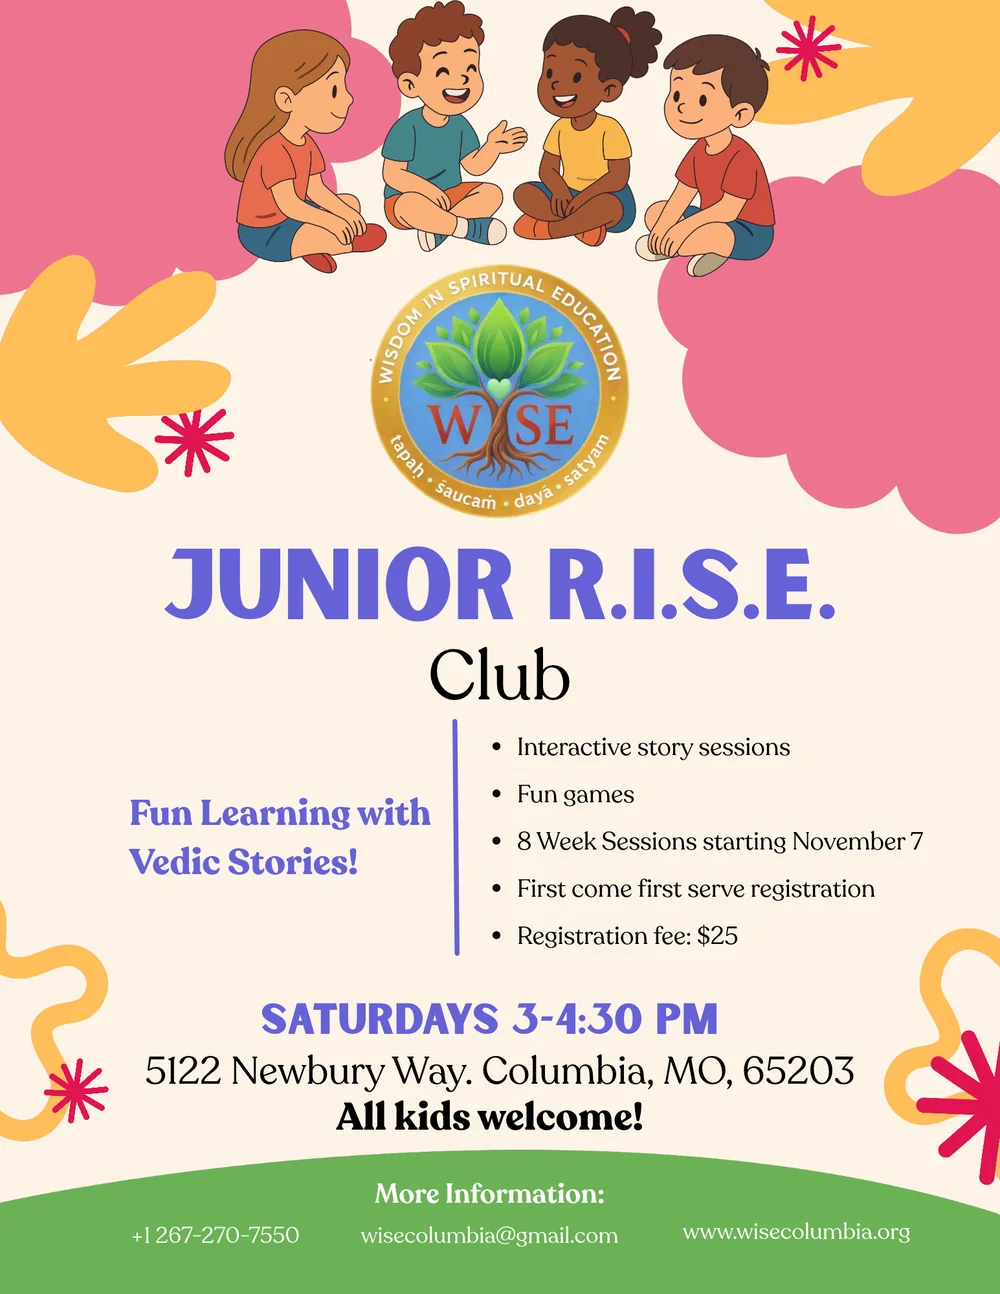
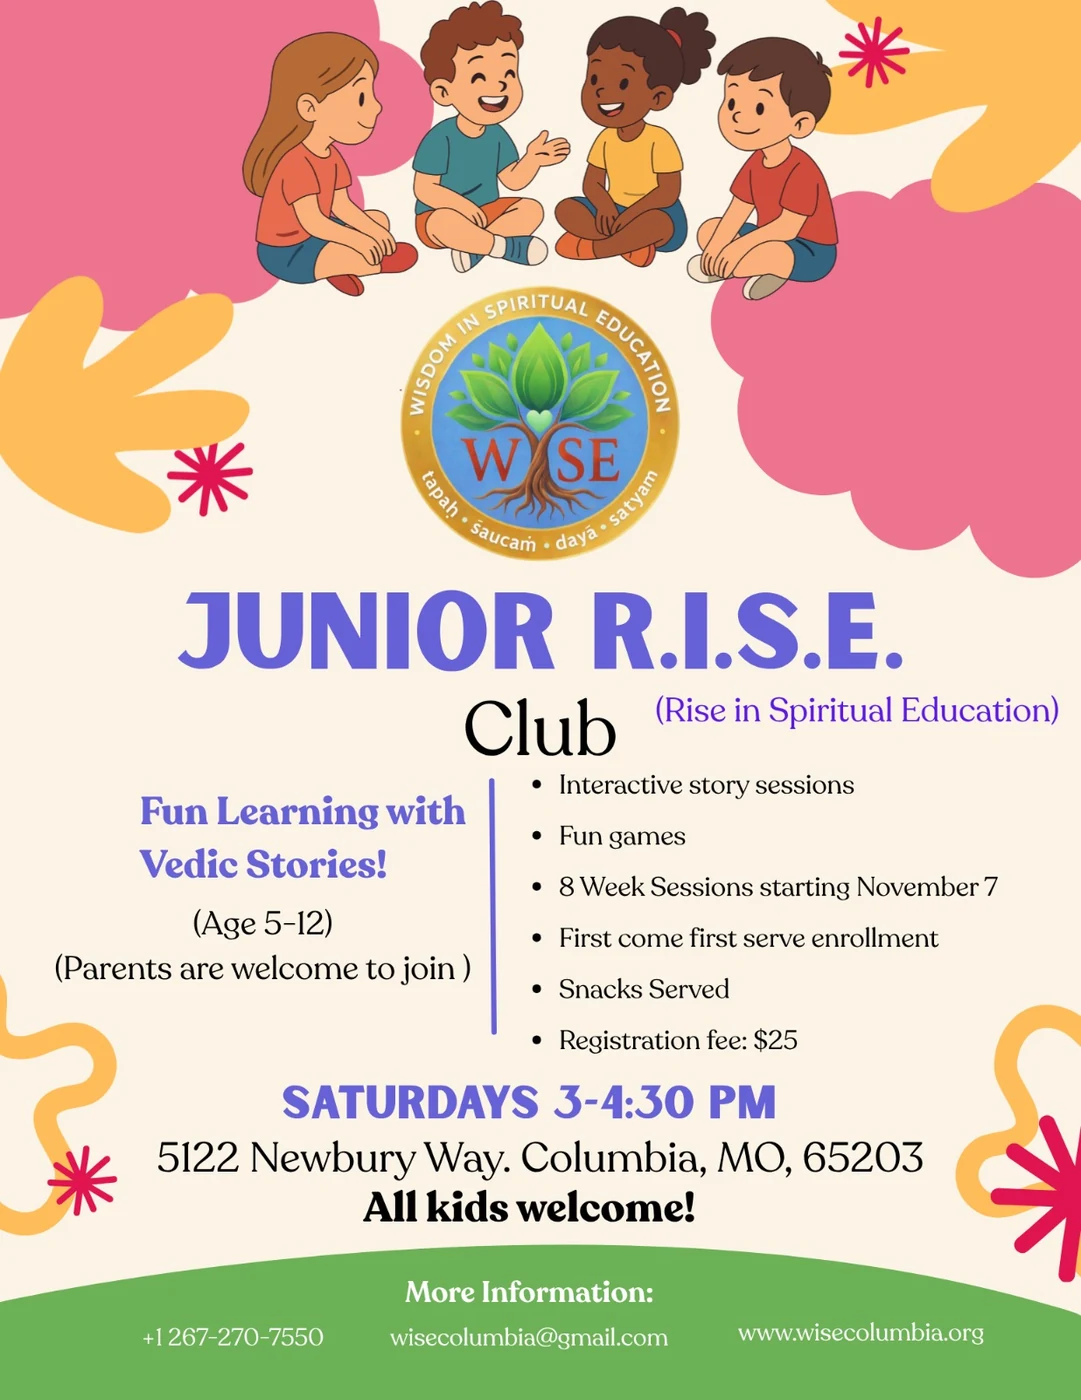
feat: update R.I.S.E. club flyers and schedules, remove Treasurer from Executive Board

diff --git a/programs.html b/programs.html
@@ -14,7 +14,7 @@
     <meta name="viewport" content="width=device-width, initial-scale=1.0">
     <title>Kids &amp; Youth Programs and Events in Columbia, MO | WISE Columbia</title>
     <meta name="description"
-        content="Weekly kids and youth programs in Columbia, Missouri: Youth R.I.S.E. Club (Fridays) and Junior R.I.S.E. Club (Saturdays) starting November 2026, plus Bhagavad Gita study, spiritual retreats, and community festivals by WISE Columbia.">
+        content="Weekly kids and youth programs in Columbia, Missouri: Junior R.I.S.E. Club (Saturdays 3-4:30 PM) and Youth R.I.S.E. Club (Saturdays 7-8:30 PM) starting November 7, 2026, plus Bhagavad Gita study, spiritual retreats, and community festivals by WISE Columbia.">
     <link rel="canonical" href="https://www.wisecolumbia.org/programs">
     <meta name="robots" content="index, follow, max-image-preview:large">
 
@@ -26,13 +26,13 @@
     <meta property="og:type" content="website">
     <meta property="og:site_name" content="WISE Columbia">
     <meta property="og:title" content="Kids &amp; Youth Programs and Events in Columbia, MO | WISE Columbia">
-    <meta property="og:description" content="Youth R.I.S.E. Club (Fridays 7-8:30 PM) and Junior R.I.S.E. Club (Saturdays 3-4:30 PM) start November 2026 in Columbia, MO. Vedic stories, discussions, games and community.">
+    <meta property="og:description" content="Junior R.I.S.E. Club (Saturdays 3-4:30 PM) and Youth R.I.S.E. Club (Saturdays 7-8:30 PM) start November 7, 2026 in Columbia, MO. Vedic stories, discussions, games and community.">
     <meta property="og:url" content="https://www.wisecolumbia.org/programs">
     <meta property="og:image" content="https://www.wisecolumbia.org/assets/images/hero.png">
     <meta property="og:locale" content="en_US">
     <meta name="twitter:card" content="summary_large_image">
     <meta name="twitter:title" content="Kids &amp; Youth Programs and Events in Columbia, MO | WISE Columbia">
-    <meta name="twitter:description" content="Weekly R.I.S.E. Clubs for kids and youth in Columbia, MO starting November 2026. $25 registration, all welcome.">
+    <meta name="twitter:description" content="Weekly R.I.S.E. Clubs for kids and youth in Columbia, MO starting November 7, 2026. $25 registration, all welcome.">
     <meta name="twitter:image" content="https://www.wisecolumbia.org/assets/images/hero.png">
 
     <!-- Structured data: organization + events (Google rich results) -->
@@ -76,15 +76,15 @@
         {
           "@type": "Event",
           "name": "Youth R.I.S.E. Club - Columbia, MO",
-          "description": "8-week youth program in Columbia, Missouri: interactive Vedic scripture discussion, fun games and potluck dinner. Fridays 7:00-8:30 PM. All youth welcome. First come, first served registration.",
-          "startDate": "2026-11-06T19:00:00-06:00",
-          "endDate": "2026-11-06T20:30:00-06:00",
+          "description": "8-week youth program (Age 12+) in Columbia, Missouri: interactive Vedic scripture discussion, fun games and potluck dinner. Saturdays 7:00-8:30 PM starting November 7. All youth welcome. First come, first served enrollment.",
+          "startDate": "2026-11-07T19:00:00-06:00",
+          "endDate": "2026-11-07T20:30:00-06:00",
           "eventSchedule": {
             "@type": "Schedule",
-            "startDate": "2026-11-06",
+            "startDate": "2026-11-07",
             "repeatFrequency": "P1W",
             "repeatCount": 8,
-            "byDay": "https://schema.org/Friday",
+            "byDay": "https://schema.org/Saturday",
             "startTime": "19:00:00",
             "endTime": "20:30:00",
             "scheduleTimezone": "America/Chicago"
@@ -94,6 +94,7 @@
           "location": { "@id": "https://www.wisecolumbia.org/#venue" },
           "image": ["https://www.wisecolumbia.org/assets/images/youth_rise_club.webp"],
           "organizer": { "@id": "https://www.wisecolumbia.org/#organization" },
+          "typicalAgeRange": "12+",
           "offers": {
             "@type": "Offer",
             "price": "25",
@@ -105,7 +106,7 @@
         {
           "@type": "Event",
           "name": "Junior R.I.S.E. Club - Columbia, MO",
-          "description": "8-week kids program in Columbia, Missouri: fun learning with Vedic stories through interactive story sessions and games. Saturdays 3:00-4:30 PM. All kids welcome. First come, first served registration.",
+          "description": "8-week kids program (Age 5-12) in Columbia, Missouri: fun learning with Vedic stories through interactive story sessions, games and snacks. Saturdays 3:00-4:30 PM starting November 7. All kids welcome (parents welcome to join). First come, first served enrollment.",
           "startDate": "2026-11-07T15:00:00-06:00",
           "endDate": "2026-11-07T16:30:00-06:00",
           "eventSchedule": {
@@ -123,6 +124,7 @@
           "location": { "@id": "https://www.wisecolumbia.org/#venue" },
           "image": ["https://www.wisecolumbia.org/assets/images/junior_rise_club.webp"],
           "organizer": { "@id": "https://www.wisecolumbia.org/#organization" },
+          "typicalAgeRange": "5-12",
           "offers": {
             "@type": "Offer",
             "price": "25",
@@ -356,7 +358,7 @@
                     <div
                         style="background: var(--secondary); color: white; padding: 40px; text-align: center; display: flex; flex-direction: column; justify-content: center; min-width: 150px;">
                         <span style="font-size: 0.85rem; font-weight: 600; text-transform: uppercase; letter-spacing: 1px; opacity: 0.8;">Starts</span>
-                        <span style="font-size: 2.5rem; font-weight: 800; line-height: 1; margin-top: 5px;">6</span>
+                        <span style="font-size: 2.5rem; font-weight: 800; line-height: 1; margin-top: 5px;">7</span>
                         <span style="font-size: 1.2rem; font-weight: 700; text-transform: uppercase; margin-top: 5px;">NOV</span>
                         <span style="font-size: 0.9rem; opacity: 0.8; margin-top: 5px;">2026</span>
                     </div>
@@ -365,9 +367,9 @@
                             style="font-size: 2.2rem; color: var(--secondary); margin-bottom: 10px;">Youth R.I.S.E. Club</h3>
                         <p
                             style="color: var(--primary); font-weight: 700; text-transform: uppercase; letter-spacing: 1px; font-size: 0.85rem; margin-bottom: 15px;">
-                            8-Week Program &middot; All Youth Welcome</p>
+                            8-Week Program &middot; Age 12+ &middot; All Youth Welcome</p>
                         <p style="margin-bottom: 20px; font-size: 1.1rem; line-height: 1.8;">Discover yourself through
-                            interactive sessions and games. Youth explore timeless wisdom through engaging discussions
+                            interactive sessions and games (Age 12+). Youth explore timeless wisdom through engaging discussions
                             of Vedic scriptures, connect with friends over fun games, and close each evening with a
                             potluck dinner.</p>
                         <ul style="list-style: none; margin-bottom: 20px; line-height: 1.8; color: #334155;">
@@ -376,7 +378,7 @@
                             <li style="display: flex; gap: 12px;"><i class="fas fa-utensils" style="color: var(--primary); margin-top: 6px;"></i><span>Potluck dinner</span></li>
                         </ul>
                         <div style="display: flex; gap: 20px; flex-wrap: wrap; color: #64748B;">
-                            <p style="font-size: 0.9rem;"><i class="fas fa-clock" style="color: var(--primary); margin-right: 8px;"></i> Fridays, 7:00 &ndash; 8:30 PM</p>
+                            <p style="font-size: 0.9rem;"><i class="fas fa-clock" style="color: var(--primary); margin-right: 8px;"></i> Saturdays, 7:00 &ndash; 8:30 PM</p>
                             <p style="font-size: 0.9rem;"><i class="fas fa-map-marker-alt" style="color: var(--primary); margin-right: 8px;"></i> 5122 Newbury Way, Columbia, MO 65203</p>
                             <p style="font-size: 0.9rem;"><i class="fas fa-ticket-alt" style="color: var(--primary); margin-right: 8px;"></i> Registration fee: $25 (first come, first served)</p>
                         </div>
@@ -393,7 +395,7 @@
                         </div>
                     </div>
                     <div class="event-image-container" style="aspect-ratio: 1000 / 1294; background-color: #FAF2E6;">
-                        <img src="assets/images/youth_rise_club.webp" alt="Youth R.I.S.E. Club flyer - Fridays 7-8:30 PM starting November 6" class="event-image" loading="lazy">
+                        <img src="assets/images/youth_rise_club.webp" alt="Youth R.I.S.E. Club flyer - Saturdays 7-8:30 PM starting November 7 (Age 12+)" class="event-image" loading="lazy">
                     </div>
                 </div>
 
@@ -412,13 +414,14 @@
                             style="font-size: 2.2rem; color: var(--secondary); margin-bottom: 10px;">Junior R.I.S.E. Club</h3>
                         <p
                             style="color: var(--primary); font-weight: 700; text-transform: uppercase; letter-spacing: 1px; font-size: 0.85rem; margin-bottom: 15px;">
-                            8-Week Program &middot; All Kids Welcome</p>
+                            8-Week Program &middot; Age 5&ndash;12 &middot; All Kids Welcome</p>
                         <p style="margin-bottom: 20px; font-size: 1.1rem; line-height: 1.8;">Fun learning with Vedic
-                            stories! Children discover timeless values through lively, interactive storytelling and
+                            stories! (Age 5&ndash;12, parents are welcome to join). Children discover timeless values through lively, interactive storytelling and
                             playful games in a warm, welcoming setting.</p>
                         <ul style="list-style: none; margin-bottom: 20px; line-height: 1.8; color: #334155;">
                             <li style="display: flex; gap: 12px;"><i class="fas fa-book-reader" style="color: var(--primary); margin-top: 6px;"></i><span>Interactive story sessions</span></li>
                             <li style="display: flex; gap: 12px;"><i class="fas fa-puzzle-piece" style="color: var(--primary); margin-top: 6px;"></i><span>Fun games</span></li>
+                            <li style="display: flex; gap: 12px;"><i class="fas fa-cookie-bite" style="color: var(--primary); margin-top: 6px;"></i><span>Snacks served</span></li>
                         </ul>
                         <div style="display: flex; gap: 20px; flex-wrap: wrap; color: #64748B;">
                             <p style="font-size: 0.9rem;"><i class="fas fa-clock" style="color: var(--primary); margin-right: 8px;"></i> Saturdays, 3:00 &ndash; 4:30 PM</p>
@@ -438,7 +441,7 @@
                         </div>
                     </div>
                     <div class="event-image-container" style="aspect-ratio: 1000 / 1294; background-color: #FAF2E6;">
-                        <img src="assets/images/junior_rise_club.webp" alt="Junior R.I.S.E. Club flyer - Saturdays 3-4:30 PM starting November 7" class="event-image" loading="lazy">
+                        <img src="assets/images/junior_rise_club.webp" alt="Junior R.I.S.E. Club flyer - Saturdays 3-4:30 PM starting November 7 (Age 5-12)" class="event-image" loading="lazy">
                     </div>
                 </div>
 

diff --git a/about-us.html b/about-us.html
@@ -208,35 +208,7 @@
             </div>
 
             <div style="display: flex; flex-direction: column; gap: 50px; margin-top: 60px;">
-                <!-- Executive 1: Garima Srivastava -->
-                <div class="reveal member-card-layout"
-                    style="background: white;  border-radius: 20px; box-shadow: 0 10px 40px rgba(0,0,0,0.05);">
-                    <div class="member-avatar"
-                        style="width: 180px; height: 220px; flex-shrink: 0; background: var(--bg-muted); overflow: hidden;">
-                        <img src="assets/images/members/Garima.jpeg" alt="Garima Srivastava" class="member-photo">
-                    </div>
-                    <div style="flex: 1;">
-                        <h3 class="font-heading"
-                            style="font-size: 2.2rem; color: var(--secondary); margin-bottom: 5px;">Garima Srivastava
-                        </h3>
-                        <p
-                            style="color: var(--primary); font-weight: 700; text-transform: uppercase; letter-spacing: 1px; font-size: 0.9rem; margin-bottom: 20px;">
-                            Treasurer</p>
-
-                        <p style="line-height: 1.8; margin-bottom: 20px;">Garima Srivastava is a PhD in Rural Sociology
-                            at the University of Missouri, with an interdisciplinary background spanning Environmental
-                            Planning and Architecture. Her research focuses on the intersection of agriculture,
-                            sustainability, and social equity.</p>
-                        <p style="line-height: 1.8;">Guided by a deep spiritual path and devotion to her Aradhya, she
-                            champions a life of minimalism and sustainability. She views faith not as a retreat, but as
-                            a practical methodology—using spiritual principles to drive collective, action-oriented
-                            solutions to social and material challenges. For her, WISE is the vital bridge between her
-                            inner conviction and the purposeful use of resources, serving as her ultimate pathway to
-                            lasting bliss.</p>
-                    </div>
-                </div>
-
-                <!-- Executive 2: Rachna Aneja Arora -->
+                <!-- Executive 1: Rachna Aneja Arora -->
                 <div class="reveal member-card-layout"
                     style="background: white;  border-radius: 20px; box-shadow: 0 10px 40px rgba(0,0,0,0.05);">
                     <div class="member-avatar"
@@ -263,7 +235,7 @@
                     </div>
                 </div>
 
-                <!-- Executive 3: Parijat Ghosh -->
+                <!-- Executive 2: Parijat Ghosh -->
                 <div class="reveal member-card-layout"
                     style="background: white;  border-radius: 20px; box-shadow: 0 10px 40px rgba(0,0,0,0.05);">
                     <div class="member-avatar"
@@ -287,6 +259,7 @@
                     </div>
                 </div>
             </div>
+        </div>
     </section>
 
     <footer>
